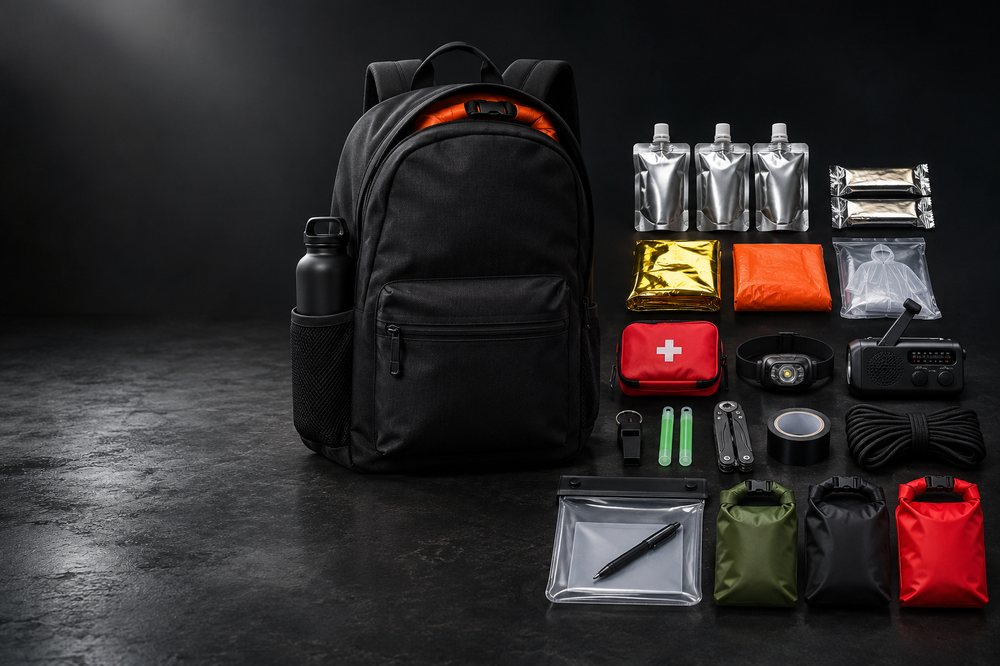
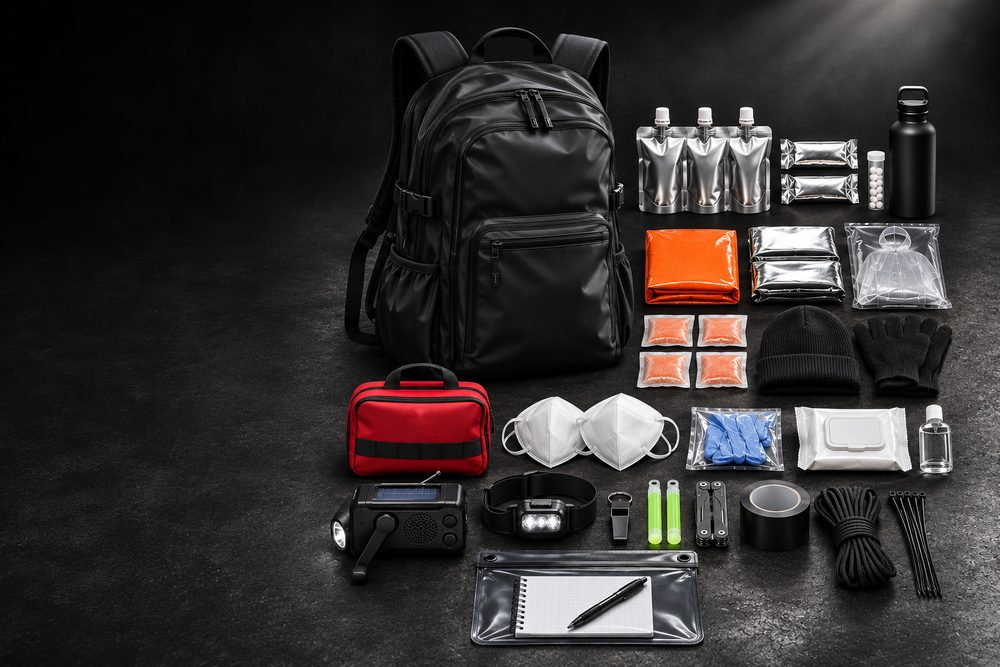
New Standard Issue hero image (waterproof rucksack, no liner or dry bags)
Claude-Session: https://claude.ai/code/session_014Pv7zEp63B6HhdES9bkinZ

diff --git a/bags/standard-issue.html b/bags/standard-issue.html
@@ -37,7 +37,7 @@
 
 <div class="wrap crumbs" style="padding-top:24px"><a href="../index.html">Home</a><span>/</span><span class="here">Standard Issue</span></div>
 <section class="wrap split" style="padding-top:32px;padding-bottom:clamp(56px,7vw,96px)">
-<div class="stack" style="flex:1 1 520px;gap:14px"><img class="si-product" src="../assets/standard-issue.jpg" srcset="../assets/standard-issue-1000.jpg 1000w, ../assets/standard-issue.jpg 1536w" sizes="(max-width:760px) 100vw, 55vw" width="1536" height="1024" alt="The Blackout SOS Standard Issue go bag with its contents laid out beside it"></div>
+<div class="stack" style="flex:1 1 520px;gap:14px"><img class="si-product" src="../assets/standard-issue.jpg?v=2" srcset="../assets/standard-issue-1000.jpg?v=2 1000w, ../assets/standard-issue.jpg?v=2 1536w" sizes="(max-width:760px) 100vw, 55vw" width="1536" height="1024" alt="The Blackout SOS Standard Issue go bag with its contents laid out beside it"></div>
 <div class="stack" style="flex:1 1 420px;gap:24px">
 <div class="stack" style="gap:10px"><div class="eyebrow">One adult, 72 hours</div><h1 class="h1" style="font-size:clamp(52px,6.5vw,88px)">Standard Issue</h1><p class="lede" style="font-size:17px">Everything one adult needs for the first 72 hours of a power cut, flood, storm or evacuation, packed by hand in the UK into a plain black waterproof 30-litre rucksack. Pick it up and go.</p></div>
 <div class="muted small" style="display:flex;flex-wrap:wrap;gap:8px 24px;border-top:1px solid var(--line);border-bottom:1px solid var(--line);padding:14px 0"><span>72 hours</span><span>1 adult</span><span>30 L</span><span>About 5.5 kg packed</span><span>Waterproof bag</span><span>Packed in the UK</span></div>

diff --git a/index.html b/index.html
@@ -36,7 +36,7 @@
 <main>
 
 <section class="si-hero" aria-label="The Standard Issue go bag">
-<img class="si-bg" src="assets/standard-issue.jpg" srcset="assets/standard-issue-1000.jpg 1000w, assets/standard-issue.jpg 1536w" sizes="100vw" width="1536" height="1024" alt="The Blackout SOS Standard Issue: a plain black rucksack with its contents laid out beside it" fetchpriority="high">
+<img class="si-bg" src="assets/standard-issue.jpg?v=2" srcset="assets/standard-issue-1000.jpg?v=2 1000w, assets/standard-issue.jpg?v=2 1536w" sizes="100vw" width="1536" height="1024" alt="The Blackout SOS Standard Issue: a plain black waterproof rucksack with its 23 items laid out beside it" fetchpriority="high">
 <div class="wrap si-hero-in">
 <div class="stack si-copy">
 <p class="morse" aria-label="S O S: three dots, three dashes, three days"><span class="m-d"></span><span class="m-d"></span><span class="m-d"></span><span class="m-l"></span><span class="m-l"></span><span class="m-l"></span><span class="m-d"></span><span class="m-d"></span><span class="m-d"></span><span class="m-t">Three dots · three dashes · three days</span></p>

diff --git a/tools/standard.py b/tools/standard.py
@@ -73,7 +73,7 @@ def build_standard(page, px, gbp, SITE, subscribe_form, hero_extra=""):
     r = ""
     hero = f"""
 <section class="si-hero" aria-label="The Standard Issue go bag">
-<img class="si-bg" src="assets/standard-issue.jpg" srcset="assets/standard-issue-1000.jpg 1000w, assets/standard-issue.jpg 1536w" sizes="100vw" width="1536" height="1024" alt="The Blackout SOS Standard Issue: a plain black rucksack with its contents laid out beside it" fetchpriority="high">
+<img class="si-bg" src="assets/standard-issue.jpg?v=2" srcset="assets/standard-issue-1000.jpg?v=2 1000w, assets/standard-issue.jpg?v=2 1536w" sizes="100vw" width="1536" height="1024" alt="The Blackout SOS Standard Issue: a plain black waterproof rucksack with its 23 items laid out beside it" fetchpriority="high">
 <div class="wrap si-hero-in">
 <div class="stack si-copy">
 <p class="morse" aria-label="S O S: three dots, three dashes, three days"><span class="m-d"></span><span class="m-d"></span><span class="m-d"></span><span class="m-l"></span><span class="m-l"></span><span class="m-l"></span><span class="m-d"></span><span class="m-d"></span><span class="m-d"></span><span class="m-t">Three dots · three dashes · three days</span></p>
@@ -136,7 +136,7 @@ def build_standard(page, px, gbp, SITE, subscribe_form, hero_extra=""):
     pbody = f"""
 <div class="wrap crumbs" style="padding-top:24px"><a href="../index.html">Home</a><span>/</span><span class="here">Standard Issue</span></div>
 <section class="wrap split" style="padding-top:32px;padding-bottom:clamp(56px,7vw,96px)">
-<div class="stack" style="flex:1 1 520px;gap:14px"><img class="si-product" src="../assets/standard-issue.jpg" srcset="../assets/standard-issue-1000.jpg 1000w, ../assets/standard-issue.jpg 1536w" sizes="(max-width:760px) 100vw, 55vw" width="1536" height="1024" alt="The Blackout SOS Standard Issue go bag with its contents laid out beside it"></div>
+<div class="stack" style="flex:1 1 520px;gap:14px"><img class="si-product" src="../assets/standard-issue.jpg?v=2" srcset="../assets/standard-issue-1000.jpg?v=2 1000w, ../assets/standard-issue.jpg?v=2 1536w" sizes="(max-width:760px) 100vw, 55vw" width="1536" height="1024" alt="The Blackout SOS Standard Issue go bag with its contents laid out beside it"></div>
 <div class="stack" style="flex:1 1 420px;gap:24px">
 <div class="stack" style="gap:10px"><div class="eyebrow">{b['who']}</div><h1 class="h1" style="font-size:clamp(52px,6.5vw,88px)">Standard Issue</h1><p class="lede" style="font-size:17px">{b['lede']}</p></div>
 <div class="muted small" style="display:flex;flex-wrap:wrap;gap:8px 24px;border-top:1px solid var(--line);border-bottom:1px solid var(--line);padding:14px 0">{"".join(f"<span>{s}</span>" for s in b["specs"])}</div>
